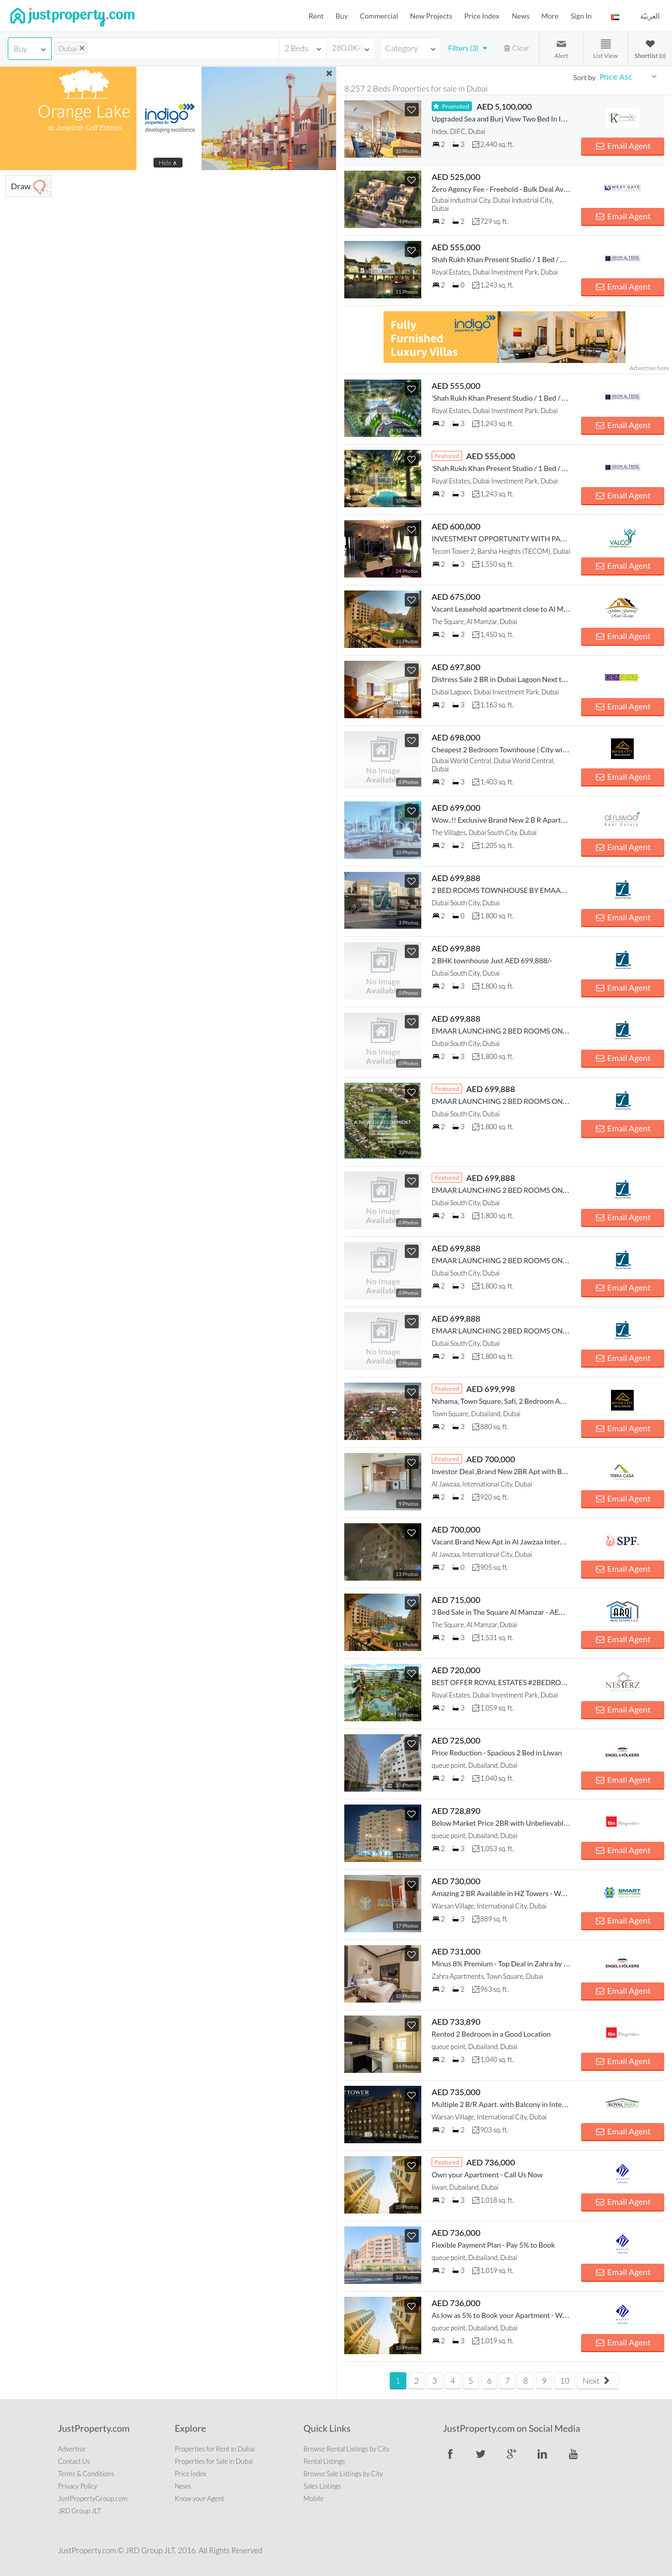
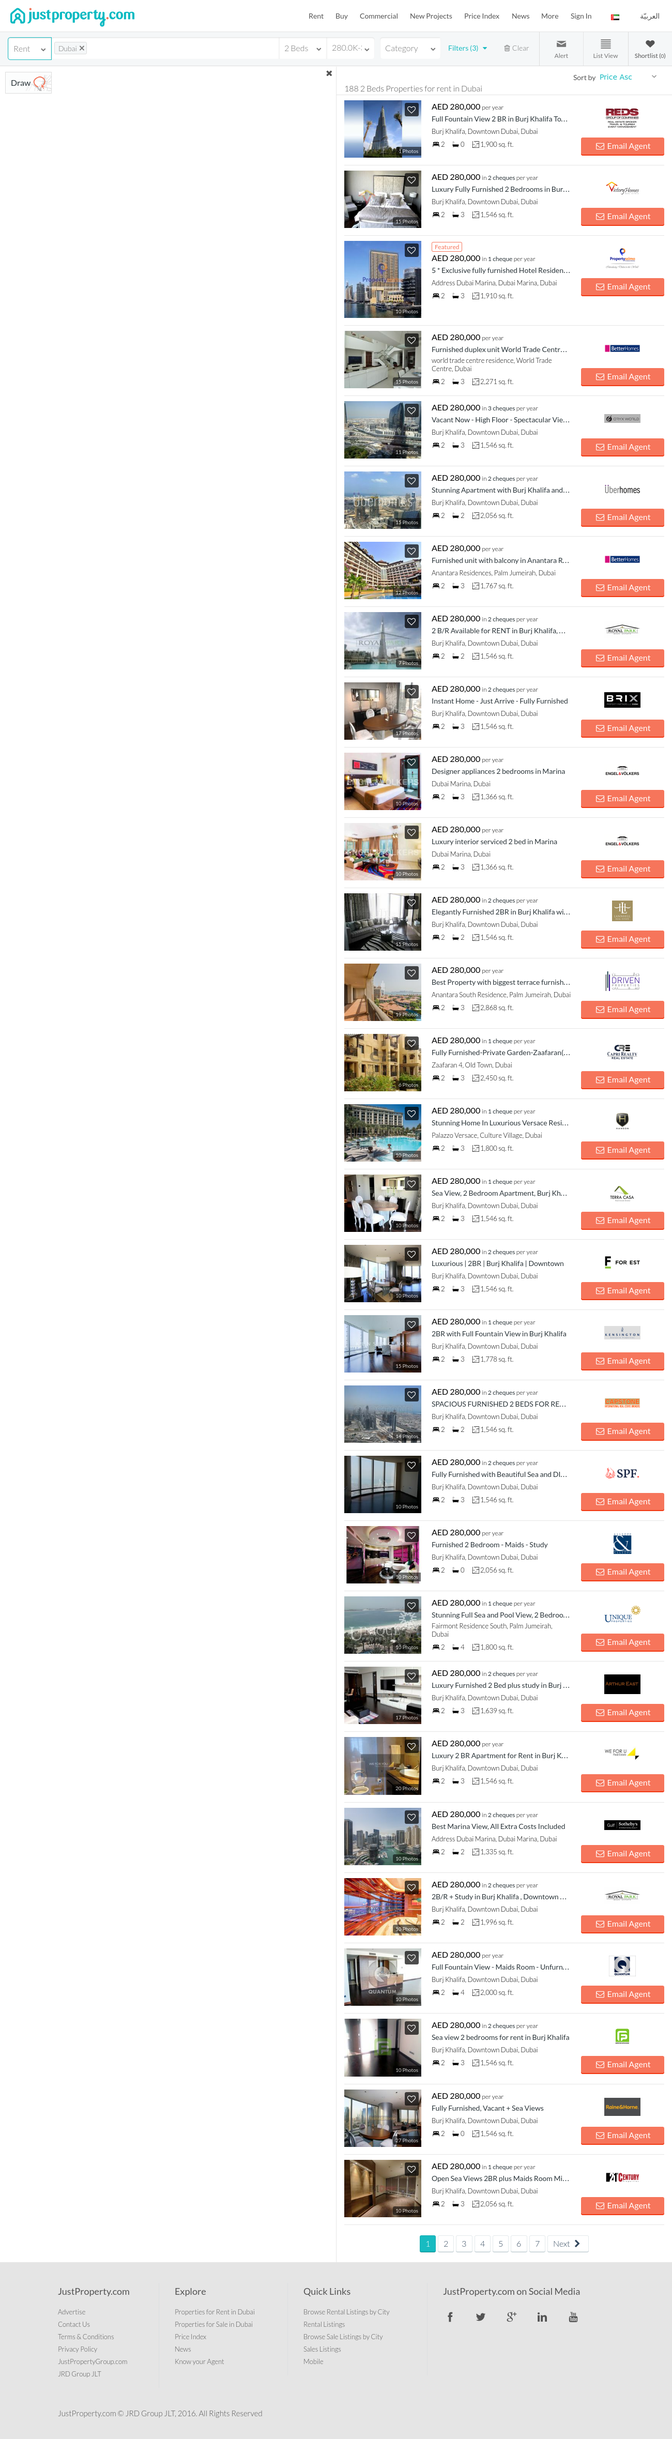
made both the apis similar

Changed region(s): [[0.0, 0.0, 1.0, 0.997]]

diff --git a/propertyfinder.js b/propertyfinder.js
@@ -1,55 +1,62 @@
-var casper=require('casper').create({
-	verbose : true/*,
+var casper = require('casper').create({
+    verbose: true
+    /*,
 	logLevel : 'debug'*/
 });
 
-var options=casper.cli.options;
-var loc=options.loc || '';
-var beds=options.beds || '';
-var minPrice=options.minPrice || '';
-var maxPrice=options.maxPrice || '';
-var page=options.page || 1;
-var type=options.type || 2; //rent or buy 1 buy 2 rent
-var url='https://www.propertyfinder.ae/search?l='+loc+'&q=&c='+type+'&t=&rp=y&pf='+minPrice+'&pt='+maxPrice+'&bf='+beds+'&page='+page+'&ob=pa' //ob=pd for price des;
-var properties=[];
+var options = casper.cli.options;
+var loc = options.loc || '';
+var beds = options.beds || '';
+var minPrice = options.minPrice || '';
+var maxPrice = options.maxPrice || '';
+var page = options.page || 1;
+var type = options.type || 2; //rent or buy 1 buy 2 rent
+var url = 'https://www.propertyfinder.ae/search?l=' + loc + '&q=&c=' + type + '&t=&rp=y&pf=' + minPrice + '&pt=' + maxPrice + '&bf=' + beds + '&page=' + page + '&ob=pa' //ob=pd for price des;
+var properties = [];
 console.log(url);
 
 casper.userAgent('Mozilla/5.0 (Windows NT 6.1; WOW64) AppleWebKit/537.36 (KHTML, like Gecko) Chrome/37.0.2062.120 Safari/537.36');
 
-function getLinks()
-{
-	function clean(text){
-		return text.replace("\n","").trim();
-	}
-	var elms=[];
+function getLinks() {
+    function clean(text) {
+        return text.replace("\n", "").trim();
+    }
+    var elms = [];
 
-	$('.serp-result > li').each(function(index,elm)
-	{
-		var elm=$(elm);
-		var name=elm.find('bdi').html();
-		var img=elm.find('img').attr('src');
-		var beds=elm.find('.property-details span:nth-child(2)').text();
-		var area=elm.find('.property-details span:nth-child(4)').text().replace("\n","").trim();
-		if(!name)
-			return;
-		elms.push({
-			name : elm.find('bdi').html(),
-			value : elm.find('span.val').html(),
-			currency : elm.find('span.currency').html(),
-			period : elm.find('span.period').html(),
-			address : elm.find('.location-tree').text().replace("\n","").trim(),
-			beds : beds.replace("\n","").trim(),
-			img : img,
-			area : area
-		});
-	});
-	return elms;
+    $('.serp-result > li').each(function(index, elm) {
+        var elm = $(elm);
+        var name = elm.find('bdi').html();
+        var img = elm.find('img').attr('src');
+        var beds = elm.find('.property-details span:nth-child(2)').text();
+        var area = elm.find('.property-details span:nth-child(4)').text().replace("\n", "").trim();
+        if (!name)
+            return;
+        elms.push({
+            name: elm.find('bdi').html(),
+            value: elm.find('span.val').html(),
+            currency: elm.find('span.currency').html(),
+            period: elm.find('span.period').html(),
+            address: elm.find('.location-tree').text().replace("\n", "").trim(),
+            beds: beds.replace("\n", "").trim(),
+            link: 'https://www.propertyfinder.ae' + elm.find('a').attr('href'),
+            img: 'https:' + img,
+            area: area
+        });
+    });
+    return {
+        'uri': document.location.href,
+        'pages': {
+            'total': $('.page-numbers a:last').text().trim(),
+            'current': $('.page-numbers span').text().trim(),
+            'next': 'https://www.propertyfinder.ae' + $('#pagination').find('.next a').attr('href')
+        },
+        data: elms
+    };;
 }
-casper.start(url,function(){
-	properties=this.evaluate(getLinks)
+casper.start(url, function() {
+    properties = this.evaluate(getLinks)
 });
-casper.run(function()
-{
-	this.echo(JSON.stringify(properties));
-	casper.done();
+casper.run(function() {
+    this.echo(JSON.stringify(properties));
+    casper.done();
 });

diff --git a/server.js b/server.js
@@ -13,7 +13,7 @@ app.get('/', function (req, res) {
         type=req.query.type,
         page=req.query.page || 1,
         uri=req.query.uri,
-        domain=(req.query.domain || 'justproperty')+'.js';
+        domain=(req.query.domain || 'propertyfinder')+'.js';
     var args = [
         'casperjs',
         domain
